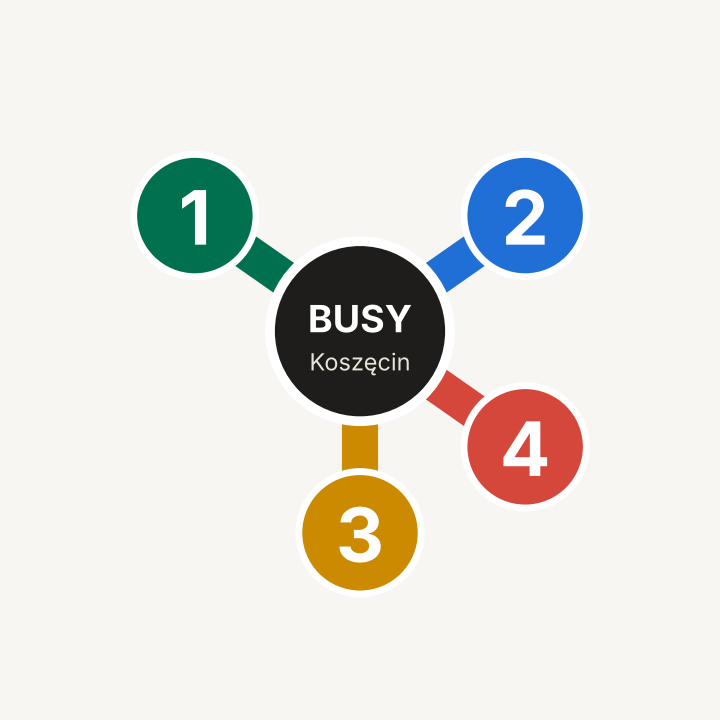
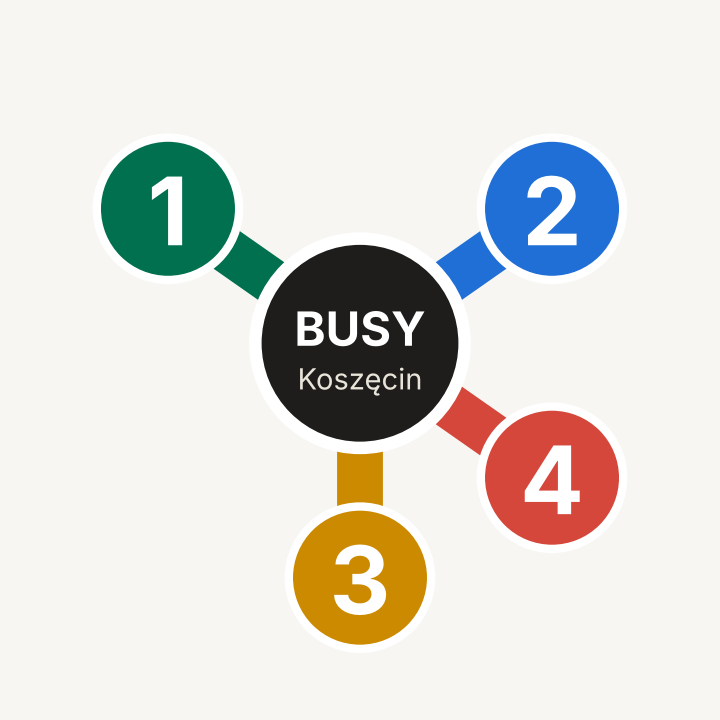
FB: większe zdjęcie profilowe
Claude-Session: https://claude.ai/code/session_016huVJsA5HNCH8rrAz5yc4V

Changed region(s): [[0.1222, 0.1833, 0.8861, 0.9167]]

diff --git a/fb/grafiki.py b/fb/grafiki.py
@@ -16,18 +16,18 @@ OUT = '../fb'
 
 # --- zdjęcie profilowe: węzeł z 4 liniami ---
 fig = plt.figure(figsize=(7.2, 7.2), dpi=100, facecolor=TLO)
-ax = fig.add_axes([0, 0, 1, 1]); ax.set_xlim(-1, 1); ax.set_ylim(-1, 1); ax.set_aspect('equal'); ax.axis('off')
+ax = fig.add_axes([0, 0, 1, 1]); ax.set_xlim(-0.86, 0.86); ax.set_ylim(-0.86, 0.86); ax.set_aspect('equal'); ax.axis('off')
 ax.add_patch(plt.Circle((0, 0), 1, color=TLO))
 kat = {'1': 145, '2': 35, '3': 270, '4': 325}
-DY = 0.08
+DY = 0.04
 for l, a in kat.items():
     x, y = 0.56 * math.cos(math.radians(a)), 0.56 * math.sin(math.radians(a)) + DY
-    ax.plot([0, x], [DY, y], color=KOL[l], lw=26, solid_capstyle='round', zorder=1)
-    ax.add_patch(plt.Circle((x, y), 0.17, color=KOL[l], zorder=3, ec='white', lw=5))
-    ax.text(x, y - 0.005, l, color='white', fontsize=54, fontweight='bold', ha='center', va='center', zorder=4)
-ax.add_patch(plt.Circle((0, DY), 0.25, color=CIEMNY, zorder=5, ec='white', lw=7))
-ax.text(0, DY + 0.035, 'BUSY', color='white', fontsize=27, fontweight='bold', ha='center', va='center', zorder=6)
-ax.text(0, DY - 0.085, 'Koszęcin', color='#E8E4DA', fontsize=17, ha='center', va='center', zorder=6)
+    ax.plot([0, x], [DY, y], color=KOL[l], lw=33, solid_capstyle='round', zorder=1)
+    ax.add_patch(plt.Circle((x, y), 0.17, color=KOL[l], zorder=3, ec='white', lw=6))
+    ax.text(x, y - 0.005, l, color='white', fontsize=68, fontweight='bold', ha='center', va='center', zorder=4)
+ax.add_patch(plt.Circle((0, DY), 0.25, color=CIEMNY, zorder=5, ec='white', lw=9))
+ax.text(0, DY + 0.035, 'BUSY', color='white', fontsize=34, fontweight='bold', ha='center', va='center', zorder=6)
+ax.text(0, DY - 0.085, 'Koszęcin', color='#E8E4DA', fontsize=21, ha='center', va='center', zorder=6)
 fig.savefig(f'{OUT}/profilowe.png', dpi=100, facecolor=TLO); plt.close(fig)
 
 # --- zdjęcie w tle: mapa siatki + napis ---
